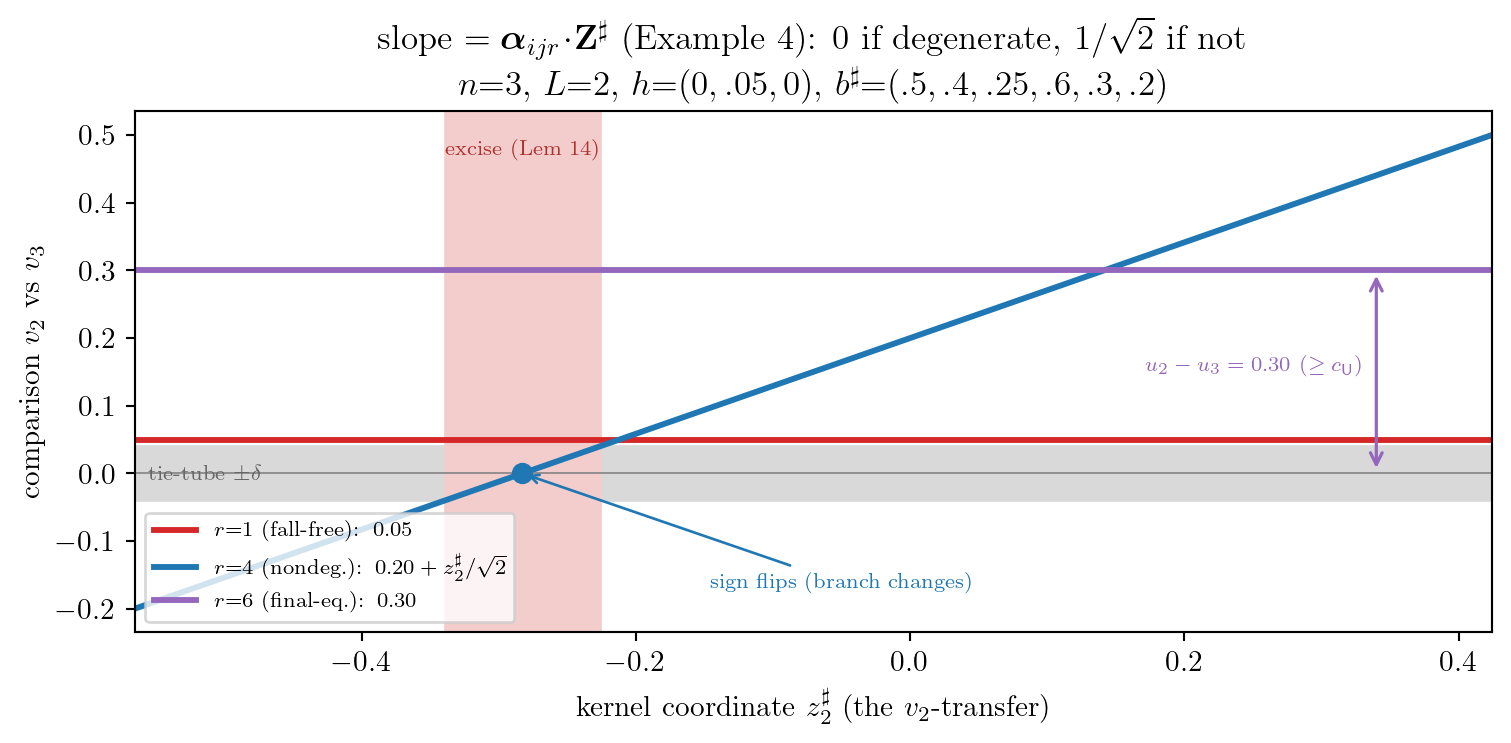
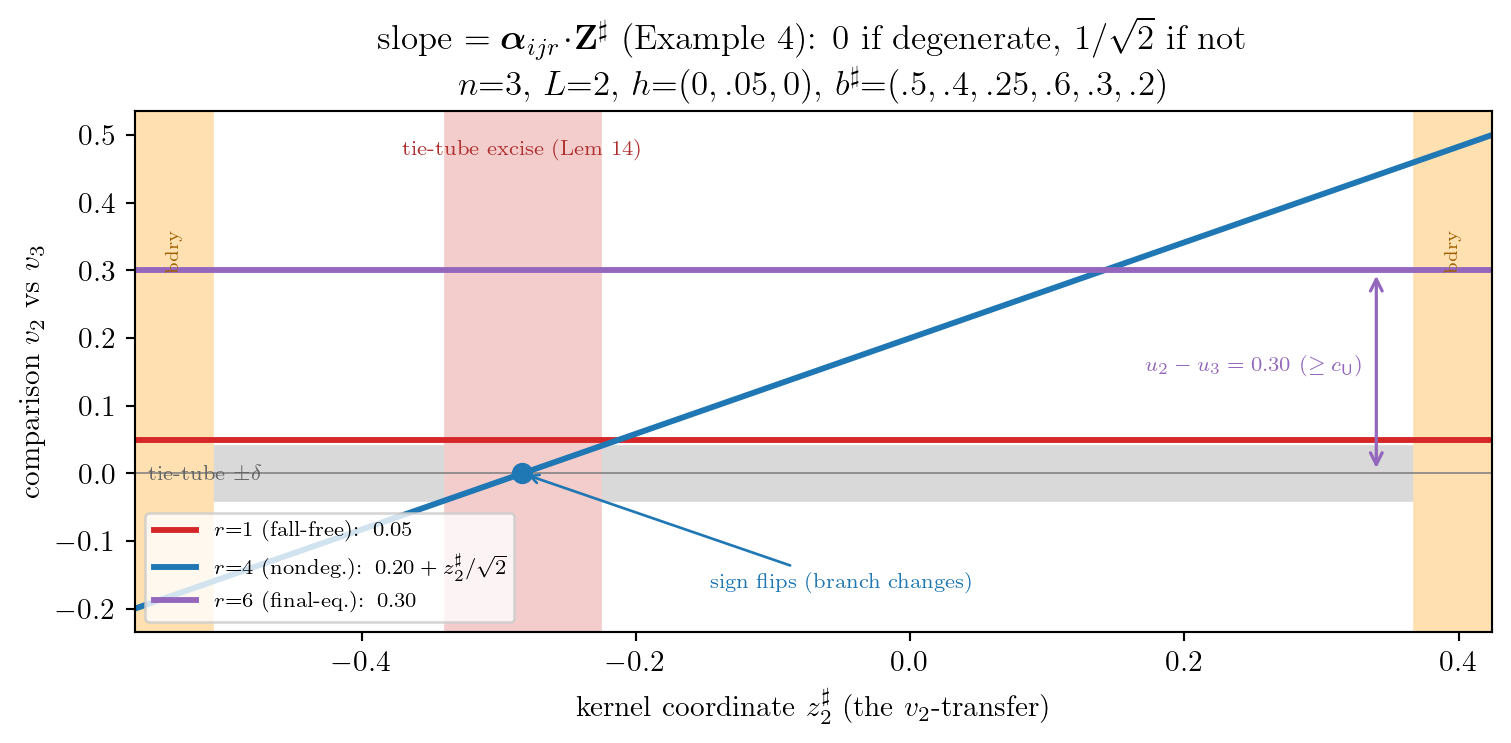
소미: 팟캐스트 figure/설명에 robust core 완전판 반영 (대표: 모든 라운드·0/b 가장자리도) — figure에 양끝 가장자리 주황띠(b_j≤δ) 추가 + 설명에 '모든 비퇴화마다 tie-tube 하나씩(유한)+가장자리도 잘라도 총 절제∝δ→m₀/2 남음=Lemma 14, R_δ 정의' 명시

diff --git a/docs/Posts/260720_487261.html b/docs/Posts/260720_487261.html
@@ -321,7 +321,7 @@ window.Quarto = {
 <li><strong><span class="math inline">\(r=6\)</span></strong>: <span class="math inline">\(\boldsymbol{\alpha}_{2,3,6}=(0,1,-1,0,1,-1)\)</span> → 기울기 <span class="math inline">\(= 1\cdot\tfrac{1}{\sqrt2} + 1\cdot(-\tfrac{1}{\sqrt2}) = 0\)</span>, 값 <span class="math inline">\(= 0.05 + 0.70 - 0.45 = 0.30\)</span> (평평, <strong>퇴화</strong>).</li>
 </ul>
 <p><span class="math inline">\(r=6\)</span> 이 <span class="math inline">\(0\)</span> 인 건 <span class="math inline">\(v_2\)</span> 의 두 낙하가 <span class="math inline">\(+\)</span> 로 같이 세지는데 <span class="math inline">\(z^{\sharp}_2\)</span> 열이 그 둘을 반대 부호로 움직여 상쇄되기 때문 — “다 옴이 퇴화”의 정체가 이거예요.</p>
-<div id="db6bfdc9" class="cell" data-execution_count="1">
+<div id="a850a72b" class="cell" data-execution_count="1">
 <div class="cell-output cell-output-display">
 <div class="quarto-figure quarto-figure-center">
 <figure class="figure">
@@ -331,7 +331,7 @@ window.Quarto = {
 </div>
 </div>
 <p><strong>G.</strong> 계산 그대로네요 — 평평한 둘(빨강 <span class="math inline">\(0.05\)</span>·보라 <span class="math inline">\(0.30\)</span>)은 <span class="math inline">\(z^{\sharp}_2\)</span> 를 밀어도 안 변하고, 파란 것만 기울기 <span class="math inline">\(1/\sqrt2\)</span> 로 기울어져 <span class="math inline">\(0\)</span> 을 지나요. 근데 그림 가운데 <strong>분홍 세로 띠</strong>는 뭐예요?</p>
-<p><strong>H.</strong> 그건 살짝 앞서 그려둔 거예요. 두 띠를 같이 보면 돼요. <strong>가로 회색 띠</strong>는 비교<strong>값</strong>이 동률에서 <span class="math inline">\(\pm\delta\)</span> 안에 든 구간 — 부호가 동률에 너무 가까워 <strong>위태로운</strong> 지대죠. <strong>분홍 세로 띠</strong>는 파란(비퇴화) 선이 바로 그 회색 띠를 지나는 <span class="math inline">\(z^{\sharp}_2\)</span> 구간이에요. 즉 <strong>“값이 위험해지는 <span class="math inline">\(z^{\sharp}_2\)</span> 범위”</strong> 를 가로 띠에서 세로축으로 옮겨 그린 거죠. 거기선 조금만 밀어도 파란 값이 <span class="math inline">\(0\)</span> 을 넘어 <strong>부호가 뒤집히고 길이 바뀌어요</strong> — 그래서 <strong>밀면 안 되는 곳</strong>. 셋째 막에서 이 얇은 띠만 <strong>도려내는</strong> 게 곧 <strong>Lemma 14</strong>(그래서 라벨이 “excise, Lem 14”)예요. 밀 수 있는 건 분홍 띠 <strong>밖</strong>, 곧 <strong>사인 플립 직전까지</strong>고요. 그 폭도 <span class="math inline">\(\delta\)</span> 에 비례(<span class="math inline">\(2\delta\sqrt2\)</span>)해서 얇으니, 도려내도 밀도는 절반이 남죠 — 자세한 계산은 셋째 막에서요.</p>
+<p><strong>H.</strong> 그건 살짝 앞서 그려둔 거예요. 두 띠를 같이 보면 돼요. <strong>가로 회색 띠</strong>는 비교<strong>값</strong>이 동률에서 <span class="math inline">\(\pm\delta\)</span> 안에 든 구간 — 부호가 동률에 너무 가까워 <strong>위태로운</strong> 지대죠. <strong>분홍 세로 띠</strong>는 파란(비퇴화) 선이 바로 그 회색 띠를 지나는 <span class="math inline">\(z^{\sharp}_2\)</span> 구간이에요. 즉 <strong>“값이 위험해지는 <span class="math inline">\(z^{\sharp}_2\)</span> 범위”</strong> 를 가로 띠에서 세로축으로 옮겨 그린 거죠. 거기선 조금만 밀어도 파란 값이 <span class="math inline">\(0\)</span> 을 넘어 <strong>부호가 뒤집히고 길이 바뀌어요</strong> — 그래서 <strong>밀면 안 되는 곳</strong>. 셋째 막에서 이 얇은 띠만 <strong>도려내는</strong> 게 곧 <strong>Lemma 14</strong>(그래서 라벨이 “excise, Lem 14”)예요. 밀 수 있는 건 분홍 띠 <strong>밖</strong>, 곧 <strong>사인 플립 직전까지</strong>고요. 그리고 이건 <strong>한 비교(파란 것 하나)</strong> 만 그린 거예요 — 실제론 <strong>모든 비퇴화 비교마다</strong> 이런 tie-tube 가 하나씩 있고(유한 개), 게다가 낙하량이 <span class="math inline">\(0\)</span> 이나 <span class="math inline">\(b\)</span> 에 너무 붙는 <strong>가장자리(그림 양끝 주황 띠, <span class="math inline">\(b^{\sharp}_j\le\delta\)</span> 나 <span class="math inline">\(\ge b-\delta\)</span>)</strong> 도 잘라내요 — 나중 이사 때 큐브 밖으로 안 나가게 여백을 남기려고요. <strong>전부 <span class="math inline">\(\delta\)</span> 에 비례해 얇으니, 다 합쳐도 절제 총량 <span class="math inline">\(\propto\delta\)</span> → 다 도려내도 밀도는 <span class="math inline">\(m_0/2\)</span> 가 남아요.</strong> 그게 셋째 막의 <strong>Lemma 14</strong> (<span class="math inline">\(\mathsf{R}_\delta = \{\delta\le b^{\sharp}_j\le b-\delta\}\cap\{\text{비퇴화 gap}\ge\delta\}\)</span>)입니다.</p>
 <p><strong>G.</strong> 알겠어요. 그럼 방금 세 종류로 갈린 건 무슨 정리예요?</p>
 <p><strong>H.</strong> 그게 정확히 <strong>Lemma 13</strong> 이 말하는 거예요 — <span class="math inline">\(\mathbf{z}^{\sharp}\)</span> 에 안 흔들리는(퇴화) 비교는 딱 두 꼴, <strong>안 옴(아직 낙하 없음)</strong> 아니면 <strong>다 옴(낙하 다 받음)</strong> 뿐이에요. 방금 본 <span class="math inline">\(r{=}4\)</span> 처럼 <strong>일부만 온</strong> 비교는 — 없는 게 아니라 시점상 분명 있죠 — <strong>반드시 비퇴화</strong>고요. 왜 “일부만 온” 게 퇴화가 못 되냐면, 안 흔들리는 계수 배열은 아주 대칭적이어야 하거든요 — 같은 봉우리 몫은 다 같은 값, 봉우리별 합은 0. 근데 계수가 <span class="math inline">\(0\)</span> 아니면 <span class="math inline">\(\pm 1\)</span> 이라, “전부 0”(안 옴) 아니면 “전부 채움”(다 옴) 말고는 그 대칭을 못 맞춰요. 그 사이(일부만 채움)는 대칭이 깨져 반드시 흔들리죠.</p>
 <p><strong>G.</strong> 그럼 퇴화 둘은 안심해도 돼요?</p>

diff --git a/docs/index.html b/docs/index.html
@@ -679,7 +679,7 @@ window.Quarto = {
 
 </tr>
 
-<tr data-index="1" data-listing-date-sort="1784473200000" data-listing-file-modified-sort="1784559730216" data-listing-date-modified-sort="NaN" data-listing-reading-time-sort="17" data-listing-word-count-sort="3253" data-listing-title-sort="연구 ▷ HST ▷ 작은 집합 만들기 (Def 7 – Lem 19) — 아주 쉽게, 팟캐스트로" data-listing-filename-sort="260720_연구_HST_Def7Lem19_팟캐스트해설.qmd">
+<tr data-index="1" data-listing-date-sort="1784473200000" data-listing-file-modified-sort="1784586005113" data-listing-date-modified-sort="NaN" data-listing-reading-time-sort="18" data-listing-word-count-sort="3419" data-listing-title-sort="연구 ▷ HST ▷ 작은 집합 만들기 (Def 7 – Lem 19) — 아주 쉽게, 팟캐스트로" data-listing-filename-sort="260720_연구_HST_Def7Lem19_팟캐스트해설.qmd">
 <td>
 <span class="listing-date">Jul 20, 2026</span>
 </td>
@@ -1908,7 +1908,7 @@ window.Quarto = {
 </thead>
 <tbody class="list">
 
-<tr data-index="0" data-listing-date-sort="1784473200000" data-listing-file-modified-sort="1784559730216" data-listing-date-modified-sort="NaN" data-listing-reading-time-sort="17" data-listing-word-count-sort="3253" data-listing-title-sort="연구 ▷ HST ▷ 작은 집합 만들기 (Def 7 – Lem 19) — 아주 쉽게, 팟캐스트로" data-listing-filename-sort="260720_연구_HST_Def7Lem19_팟캐스트해설.qmd">
+<tr data-index="0" data-listing-date-sort="1784473200000" data-listing-file-modified-sort="1784586005113" data-listing-date-modified-sort="NaN" data-listing-reading-time-sort="18" data-listing-word-count-sort="3419" data-listing-title-sort="연구 ▷ HST ▷ 작은 집합 만들기 (Def 7 – Lem 19) — 아주 쉽게, 팟캐스트로" data-listing-filename-sort="260720_연구_HST_Def7Lem19_팟캐스트해설.qmd">
 <td>
 <span class="listing-date">Jul 20, 2026</span>
 </td>
@@ -2808,7 +2808,7 @@ window.Quarto = {
 </thead>
 <tbody class="list">
 
-<tr data-index="0" data-listing-date-sort="1784473200000" data-listing-file-modified-sort="1784559730216" data-listing-date-modified-sort="NaN" data-listing-reading-time-sort="17" data-listing-word-count-sort="3253" data-listing-title-sort="연구 ▷ HST ▷ 작은 집합 만들기 (Def 7 – Lem 19) — 아주 쉽게, 팟캐스트로" data-listing-filename-sort="260720_연구_HST_Def7Lem19_팟캐스트해설.qmd">
+<tr data-index="0" data-listing-date-sort="1784473200000" data-listing-file-modified-sort="1784586005113" data-listing-date-modified-sort="NaN" data-listing-reading-time-sort="18" data-listing-word-count-sort="3419" data-listing-title-sort="연구 ▷ HST ▷ 작은 집합 만들기 (Def 7 – Lem 19) — 아주 쉽게, 팟캐스트로" data-listing-filename-sort="260720_연구_HST_Def7Lem19_팟캐스트해설.qmd">
 <td>
 <span class="listing-date">Jul 20, 2026</span>
 </td>
